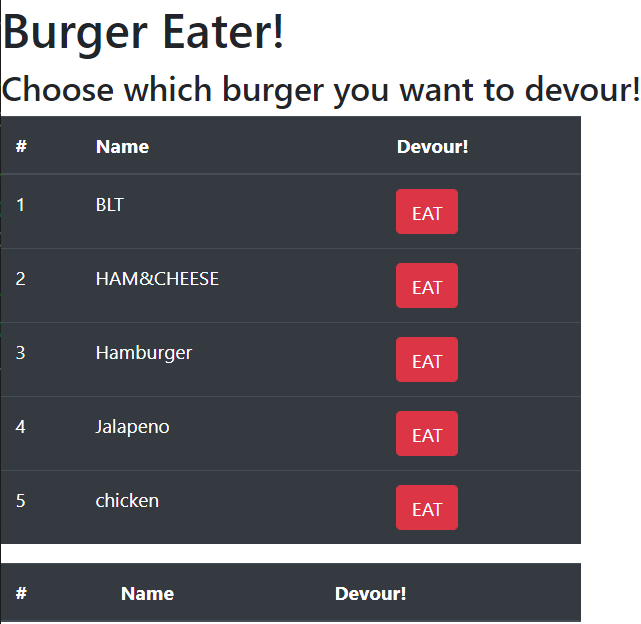
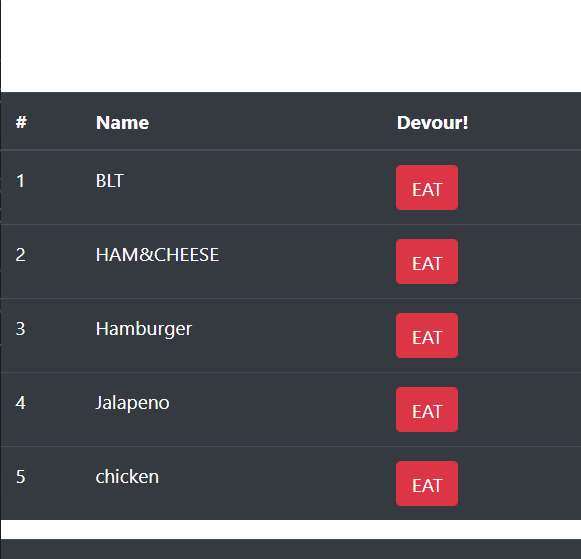
added picture and link for my eatDaBurger hw

diff --git a/portfolio.html b/portfolio.html
@@ -94,7 +94,7 @@
                 <div class="seven">
                     <div width="100%"></div>
                     <h4>
-                        <a target="_blank" style="color: black;" href="assets/images/EatdaBurgerPic.PNG"
+                        <a target="_blank" style="color: black;" href="https://github.com/Atravias/EatTheBurger"
                             title="EatDaBuger">Eat a Burger!
                         </a>
                     </h4>

diff --git a/assets/css/style.css b/assets/css/style.css
@@ -166,7 +166,7 @@ form {
                 border-style: ridge;
 }
         .seven {
-                background-image: url("../images/resumePic.PNG");
+                background-image: url("../images/EatdaBurgerPic.PNG");
                 background-size: cover;
                 object-fit: cover;
                 grid-column: 1 / 3;
